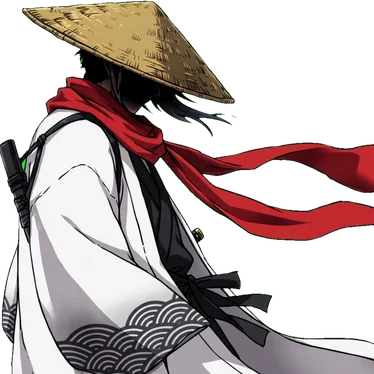
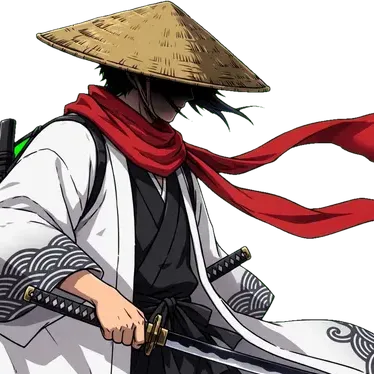
fix(facing+input): front-facing mumei, flipped hit/hev sprites, touch robustness

diff --git a/js/draw.js b/js/draw.js
@@ -48,10 +48,10 @@
   // ポーズ絵は <id>_atk（弱攻撃・必殺）/ <id>_hit（被弾・ダウン）/ <id>_grd（ガード）/ <id>_hev（強攻撃）。値は [待機, 攻撃, 被弾, ガード, 強攻撃] の体の中心の横位置（0〜1）。
   // 胴体の太い部分から事前に測った値で、ポーズを切り替えても体の位置が飛ばないようにする（武器やエフェクトの張り出しは無視）。
   const ART = {
-    zanrai: [0.301, 0.467, 0.468, 0.46, 0.502], mikoto: [0.519, 0.444, 0.549, 0.579, 0.523], kagemaru: [0.366, 0.465, 0.446, 0.371, 0.518], gounen: [0.365, 0.407, 0.504, 0.44, 0.503],
+    zanrai: [0.301, 0.467, 0.468, 0.46, 0.502], mikoto: [0.519, 0.444, 0.549, 0.579, 0.523], kagemaru: [0.366, 0.465, 0.446, 0.371, 0.518], gounen: [0.365, 0.407, 0.475, 0.44, 0.495],
     konko: [0.517, 0.336, 0.398, 0.501, 0.487], raidenzan: [0.427, 0.411, 0.341, 0.454, 0.537], shuki: [0.452, 0.48, 0.587, 0.468, 0.514], shion: [0.445, 0.372, 0.48, 0.437, 0.493],
     ougi: [0.532, 0.424, 0.483, 0.438, 0.555], nishiki: [0.244, 0.306, 0.43, 0.375, 0.515], kurotengu: [0.401, 0.489, 0.462, 0.409, 0.523], ryujin: [0.472, 0.468, 0.439, 0.489, 0.523],
-    mumei: [0.397, 0.471, 0.483, 0.398, 0.417], kaguya: [0.492, 0.508, 0.578, 0.55, 0.463] };
+    mumei: [0.445, 0.471, 0.517, 0.398, 0.417], kaguya: [0.492, 0.508, 0.578, 0.55, 0.463] };
   const POSES = ['atk', 'hit', 'grd', 'hev'];
   const IMG = {};
   function load(key, src, ax) { // 相対パス（GitHub Pages のサブパス配下でも動く）

diff --git a/js/input.js b/js/input.js
@@ -37,7 +37,7 @@
   function dpadBits(x, y) {
     const r = dpad.getBoundingClientRect(); if (!r.width) return -1;
     const cx = r.left + r.width / 2, cy = r.top + r.height / 2, R = r.width / 2, dx = x - cx, dy = y - cy, d = Math.hypot(dx, dy);
-    if (d >= R * 1.15) return -1;
+    if (d >= R * 1.3) return -1;
     if (d < R * 0.22) return 0;
     for (const b in arrows) { const q = arrows[b].getBoundingClientRect(); if (x >= q.left && x <= q.right && y >= q.top && y <= q.bottom) return +b; }
     const a = (Math.atan2(dy, dx) * 180 / Math.PI + 360) % 360;
@@ -64,6 +64,16 @@
       const r = s.el.getBoundingClientRect(); if (!r.width) continue;
       const d = Math.hypot(x - r.left - r.width / 2, y - r.top - r.height / 2);
       if (x > r.left - 12 && x < r.right + 12 && y > r.top - 12 && y < r.bottom + 12 && d < bd) { bd = d; best = s; }
+    }
+    if (!best) { // ボタン群の範囲内なら、個別の半径の外でも一番近い丸ボタンを拾う（指の腹で押す実機向け）
+      const br = $('btns').getBoundingClientRect();
+      if (br.width && x > br.left - 14 && x < br.right + 14 && y > br.top - 14 && y < br.bottom + 14) {
+        for (const f of faces) {
+          const r = f.el.getBoundingClientRect(); if (!r.width) continue;
+          const d = Math.hypot(x - r.left - r.width / 2, y - r.top - r.height / 2);
+          if (d < bd) { bd = d; best = f; }
+        }
+      }
     }
     return best ? { bits: best.bit, els: [best.el] } : null;
   }
